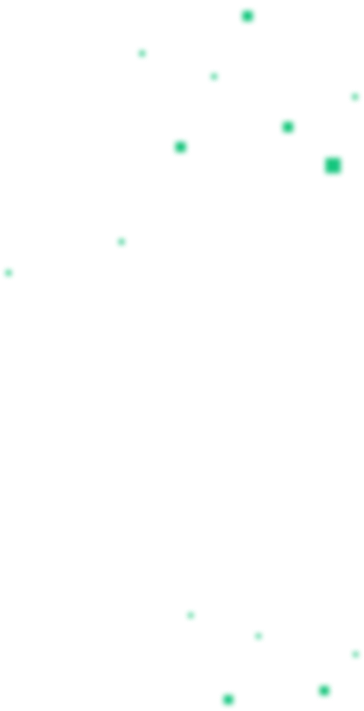
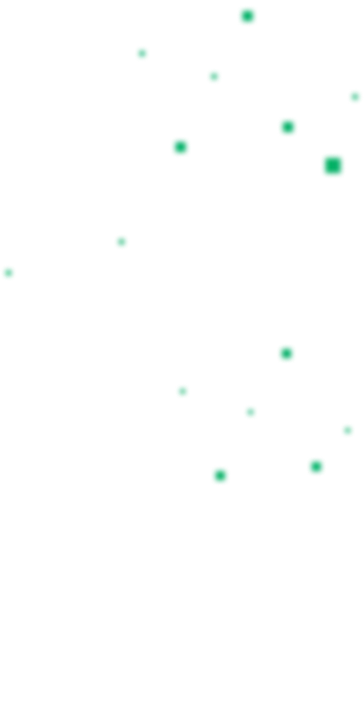
hero bg img(retina)

diff --git a/src/css/hero.css b/src/css/hero.css
@@ -1,12 +1,13 @@
 .hero {
   padding-top: 112px;
   padding-bottom: 40px;
+  position: relative;
 }
 
 .hero-wrap {
-  background-image: url(/img/bg-images/hero-decor-bg-mob.webp);
+  background-image: url(/img/bg-images/decor-bg-mob.webp);
   background-color: transparent;
-  background-size: auto;
+  background-size: cover;
   background-repeat: no-repeat;
   background-position: right top;
 }
@@ -15,7 +16,7 @@
   (min-resolution: 2dppx),
   (min-resolution: 192dpi) {
   .hero-wrap {
-    background-image: url();
+    background-image: url(/img/bg-images/decor-bg-mob-2x.webp);
   }
 }
 
@@ -71,15 +72,14 @@
   border-radius: 16px;
   width: 165px;
   height: 92px;
-  background-color: var(--green-text-color);
-  opacity: 0.2;
+  background-color: var(--green-color-bg);
   z-index: 1;
   transition: background-color 250ms cubic-bezier(0.4, 0, 0.2, 1);
 }
 
 .hero-btn:focus .hero-rectangle,
 .hero-btn:hover .hero-rectangle {
-  background-color: var(--green-text-color);
+  background-color: var(--green-hover-color);
   opacity: 0.6;
 }
 
@@ -134,14 +134,15 @@
   }
 
   .hero-wrap {
-    background-image: url(/img/bg-images/hero-decor-bg-tab.webp);
+    background-image: url(/img/bg-images/decor-bg-tab.webp);
+    background-position: left top;
   }
 
   @media screen and (-webkit-min-device-pixel-ratio: 2),
     (min-resolution: 2dppx),
     (min-resolution: 192dpi) {
     .hero-wrap {
-      background-image: url();
+      background-image: url(/img/bg-images/decor-bg-tab-2x.webp);
     }
   }
 
@@ -190,14 +191,15 @@
   }
 
   .hero-wrap {
-    background-image: url(/img/bg-images/hero-decor-bg-des.webp);
+    background-image: url(/img/bg-images/decor-bg-des.webp);
+    background-position: left 30% top 30%;
   }
 
   @media screen and (-webkit-min-device-pixel-ratio: 2),
     (min-resolution: 2dppx),
     (min-resolution: 192dpi) {
     .hero-wrap {
-      background-image: url();
+      background-image: url(/img/bg-images/decor-bg-des-2x.webp);
     }
   }
 
